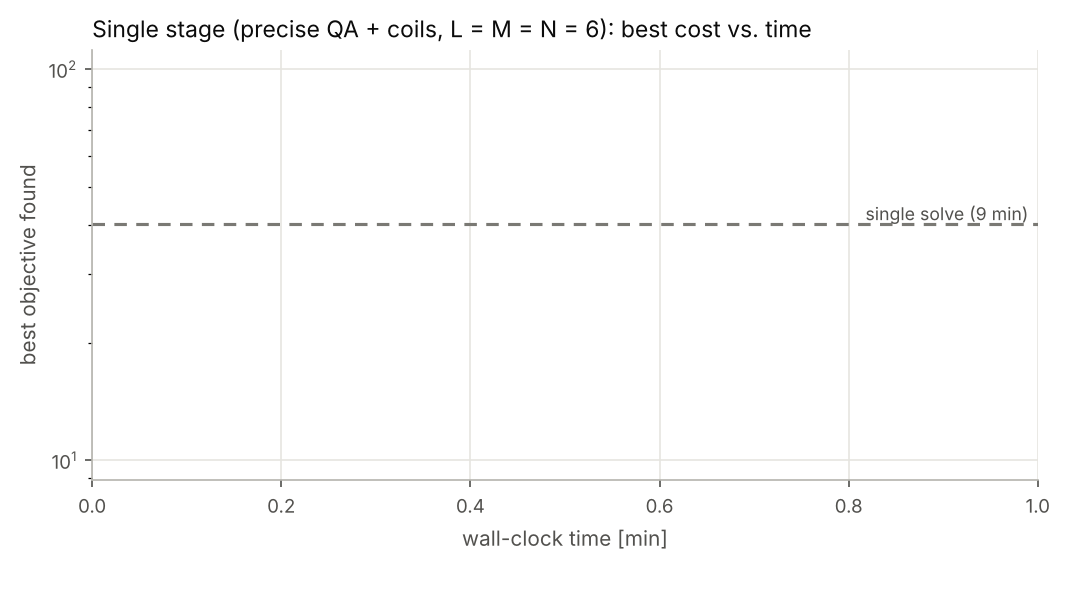
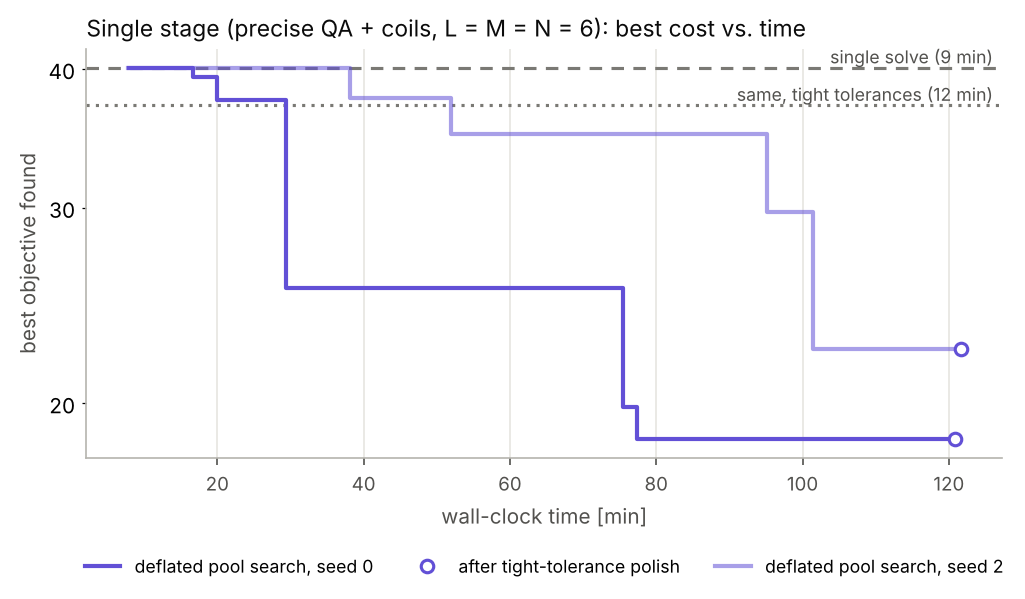
Single-stage figures with seeds 0 and 2
Claude-Session: https://claude.ai/code/session_01WPjBvHKRPzmhu1VUUxufcB

diff --git a/global_opt/results/summary.md b/global_opt/results/summary.md
@@ -103,6 +103,17 @@
 | Basin hopping, matched bounds | 0 | 14.24 | 14.14 | 2.56e-04 | 0.105 | 0.348 | 2.000 | 7.81, 6.64, 6.80 | 32 | 1253 |
 | Deflated pool search (new), matched bounds | 0 | 9.10 | 9.06 | 1.92e-04 | 0.105 | 0.336 | 2.000 | 7.81, 7.16, 7.33 | 68 | 1218 |
 
+## Single stage: precise QA and its coils together (L = M = N = 6)
+
+| Method | Seed | Best cost | QS term | Boundary-error term | Other terms | <\|B·n\|>/<\|B\|> | Aspect ratio | ι (edge) | Force residual (rms) | Coil lengths [m] | Local solves | Wall [min] |
+|---|---|---|---|---|---|---|---|---|---|---|---|---|
+| Single proximal-lsq-exact solve | – | 40.11 | 38.40 | 1.66 | 0.053 | 6.01e-04 | 6.000 | 0.4199 | 1.3e-05 | 7.48, 6.91, 7.01 | 1 | 9 |
+| Same solve, tight tolerances | – | 37.11 | 35.48 | 1.59 | 0.040 | 5.94e-04 | 6.000 | 0.4199 | 1.2e-05 | 7.50, 6.93, 7.03 | 1 | 12 |
+| Deflated pool search | 0 | 18.56 | 17.26 | 0.53 | 0.766 | 4.88e-04 | 6.000 | 0.4199 | 9.8e-06 | 9.33, 8.68, 8.52 | 80 | 122 |
+| Deflated pool search | 2 | 22.37 | 21.44 | 0.54 | 0.388 | 3.32e-04 | 6.000 | 0.4199 | 1.1e-05 | 8.37, 7.68, 7.75 | 81 | 123 |
+| Pool search's best, tight tolerances | 0 | 18.56 | 17.26 | 0.53 | 0.765 | 4.88e-04 | 6.000 | 0.4199 | 9.8e-06 | 9.33, 8.68, 8.52 | 1 | 7 |
+| Pool search's best, tight tolerances | 2 | 22.37 | 21.44 | 0.54 | 0.388 | 3.32e-04 | 6.000 | 0.4199 | 1.1e-05 | 8.37, 7.68, 7.75 | 1 | 4 |
+
 ## NAE-constrained equilibria (deflation tutorial problem)
 
 | Method | Seed | Solutions | Valid | Distinct (δ = 0.01 / 0.02 / 0.04 m) | s per solution | Best QS error | Median QS error | ι edge range | Best f_B(ρ=1) |
